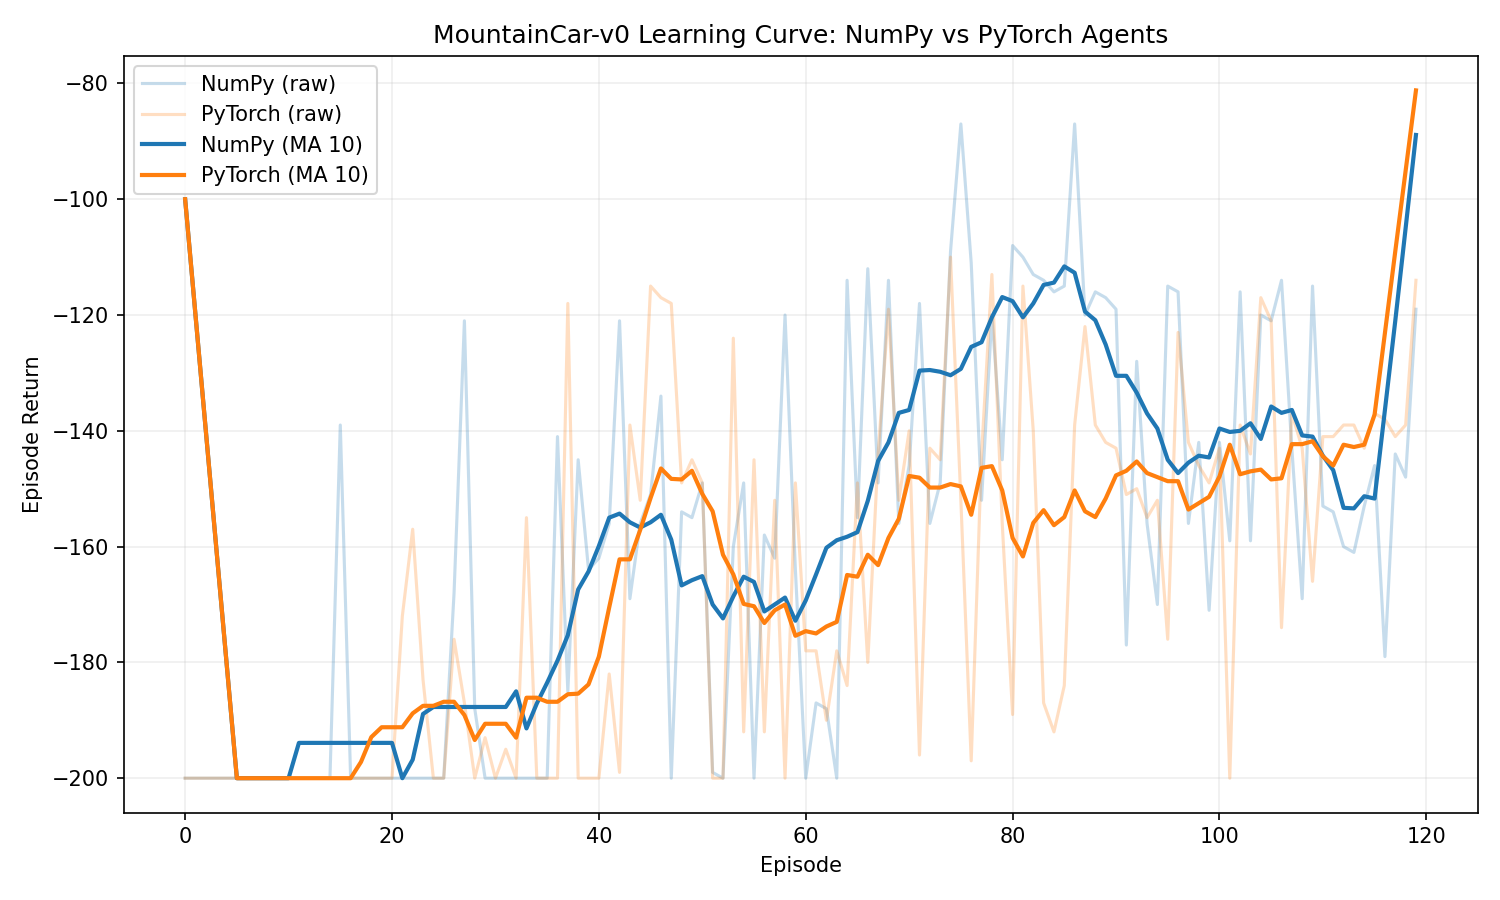
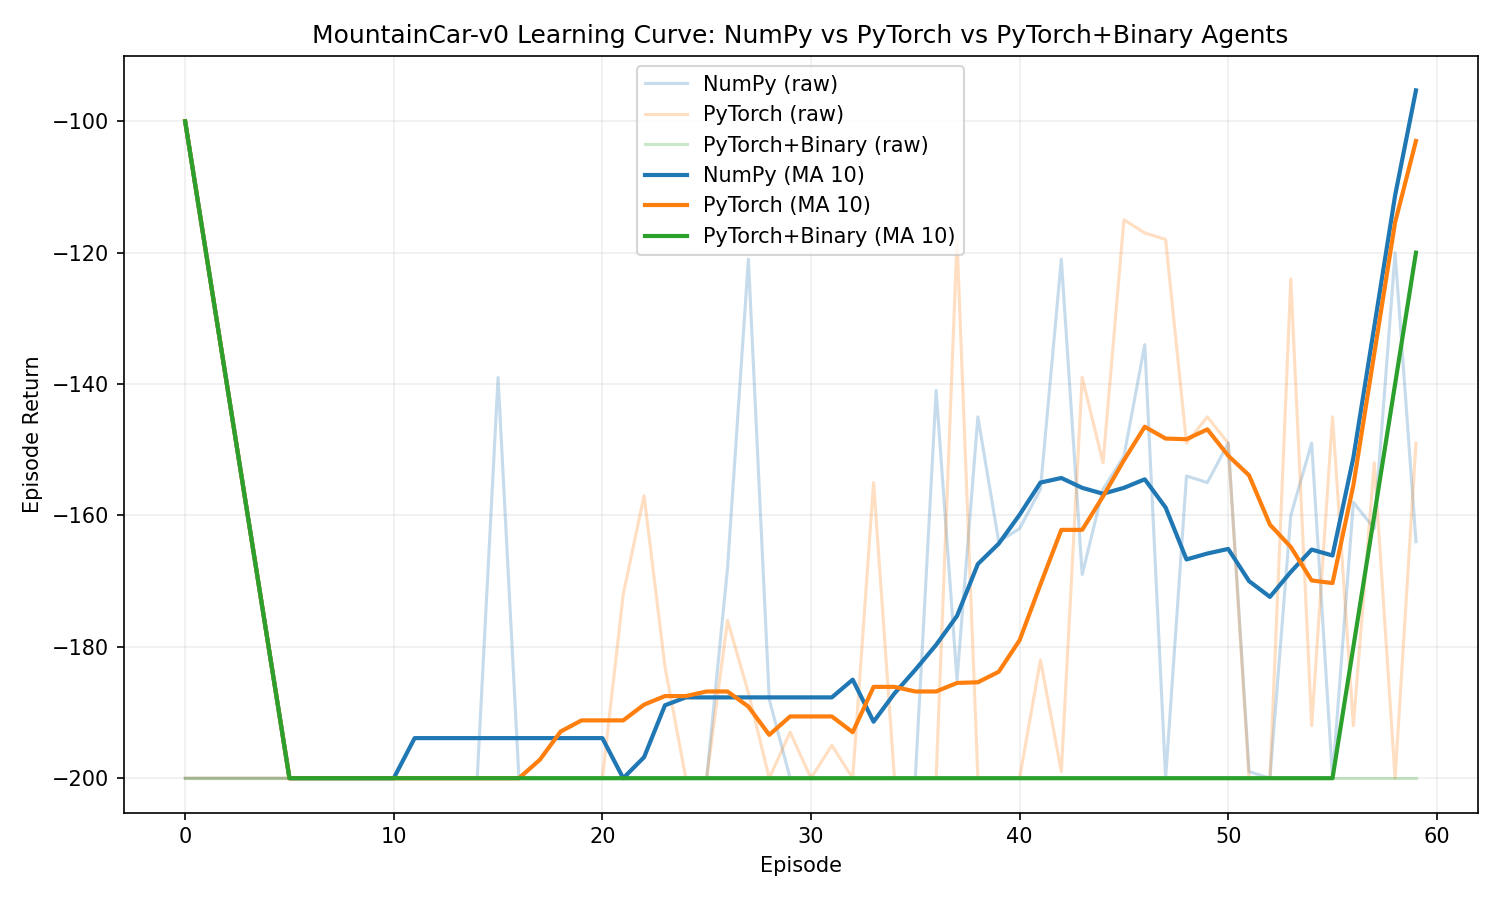
feat: add binary Kanerva layer and 3-agent comparison
Agent-Logs-Url: https://github.com/JadenTravnik/KanervaCoding/sessions/2e381cfc-a53f-4feb-bd0c-9257036e0b41

diff --git a/compare_learning_curves.py b/compare_learning_curves.py
@@ -6,9 +6,9 @@ import numpy as np
 import torch
 
 from agent import QValueAgent
-from agent_torch import QValueAgentTorch
+from agent_torch import QValueAgentTorch, QValueAgentTorchBinary
 from kanerva import BaseKanervaCoder
-from kanerva_torch import KanervaLayer
+from kanerva_torch import KanervaBinary, KanervaLayer
 
 # gym==0.26 expects np.bool8, which is removed in NumPy 2.x.
 if not hasattr(np, "bool8"):
@@ -118,6 +118,59 @@ def train_torch_agent(
     return returns
 
 
+def train_torch_binary_agent(
+    n_episodes: int,
+    max_steps: int,
+    n_features: int,
+    n_closest: int,
+    n_binary_features: int,
+    n_binary_closest: int,
+    alpha: float,
+    epsilon: float,
+    gamma: float,
+    lmbda: float,
+    seed: int,
+) -> np.ndarray:
+    env = gym.make("MountainCar-v0")
+    env.action_space.seed(seed)
+
+    kanerva_layer = KanervaLayer(env.observation_space, n_features, n_closest)
+    kanerva_binary_layer = KanervaBinary(n_features, n_binary_features, n_binary_closest)
+    agent = QValueAgentTorchBinary(
+        kanerva_layer=kanerva_layer,
+        kanerva_binary_layer=kanerva_binary_layer,
+        n_actions=env.action_space.n,
+        alpha=alpha,
+        epsilon=epsilon,
+        gamma=gamma,
+        lmbda=lmbda,
+    )
+
+    returns = np.zeros(n_episodes, dtype=np.float32)
+    for i_episode in range(n_episodes):
+        observation = _reset_env(env, seed=seed + i_episode)
+        obs_tensor = torch.tensor(observation, dtype=torch.float32)
+
+        ep_return = 0.0
+        for _ in range(max_steps):
+            action = agent.act(obs_tensor)
+            new_observation, reward, done, _ = _step_env(env, action)
+            new_obs_tensor = torch.tensor(new_observation, dtype=torch.float32)
+            agent.update(obs_tensor, action, reward, new_obs_tensor)
+            ep_return += reward
+
+            if done:
+                agent.erase_traces()
+                break
+
+            obs_tensor = new_obs_tensor
+
+        returns[i_episode] = ep_return
+
+    env.close()
+    return returns
+
+
 def moving_average(values: np.ndarray, window: int) -> np.ndarray:
     """
     Computes a simple moving average using convolution.
@@ -138,6 +191,8 @@ def main() -> None:
     parser.add_argument("--max-steps", type=int, default=200)
     parser.add_argument("--n-features", type=int, default=2000)
     parser.add_argument("--n-closest", type=int, default=25)
+    parser.add_argument("--n-binary-features", type=int, default=2000)
+    parser.add_argument("--n-binary-closest", type=int, default=25)
     parser.add_argument("--alpha", type=float, default=0.1)
     parser.add_argument("--epsilon", type=float, default=0.1)
     parser.add_argument("--gamma", type=float, default=0.99)
@@ -177,16 +232,42 @@ def main() -> None:
         seed=args.seed,
     )
 
+    np.random.seed(args.seed)
+    torch.manual_seed(args.seed)
+
+    torch_binary_returns = train_torch_binary_agent(
+        n_episodes=args.episodes,
+        max_steps=args.max_steps,
+        n_features=args.n_features,
+        n_closest=args.n_closest,
+        n_binary_features=args.n_binary_features,
+        n_binary_closest=args.n_binary_closest,
+        alpha=args.alpha,
+        epsilon=args.epsilon,
+        gamma=args.gamma,
+        lmbda=args.lmbda,
+        seed=args.seed,
+    )
+
     episodes = np.arange(args.episodes)
     numpy_smooth = moving_average(numpy_returns, args.smooth_window)
     torch_smooth = moving_average(torch_returns, args.smooth_window)
+    torch_binary_smooth = moving_average(torch_binary_returns, args.smooth_window)
 
     plt.figure(figsize=(10, 6))
     plt.plot(episodes, numpy_returns, color="tab:blue", alpha=0.25, label="NumPy (raw)")
     plt.plot(episodes, torch_returns, color="tab:orange", alpha=0.25, label="PyTorch (raw)")
+    plt.plot(episodes, torch_binary_returns, color="tab:green", alpha=0.25, label="PyTorch+Binary (raw)")
     plt.plot(episodes, numpy_smooth, color="tab:blue", linewidth=2.0, label=f"NumPy (MA {args.smooth_window})")
     plt.plot(episodes, torch_smooth, color="tab:orange", linewidth=2.0, label=f"PyTorch (MA {args.smooth_window})")
-    plt.title("MountainCar-v0 Learning Curve: NumPy vs PyTorch Agents")
+    plt.plot(
+        episodes,
+        torch_binary_smooth,
+        color="tab:green",
+        linewidth=2.0,
+        label=f"PyTorch+Binary (MA {args.smooth_window})",
+    )
+    plt.title("MountainCar-v0 Learning Curve: NumPy vs PyTorch vs PyTorch+Binary Agents")
     plt.xlabel("Episode")
     plt.ylabel("Episode Return")
     plt.grid(alpha=0.2)
@@ -197,6 +278,7 @@ def main() -> None:
     print(f"Saved learning curve comparison to {args.output}")
     print(f"NumPy mean return:   {numpy_returns.mean():.2f}")
     print(f"PyTorch mean return: {torch_returns.mean():.2f}")
+    print(f"PyTorch+Binary mean return: {torch_binary_returns.mean():.2f}")
 
 
 if __name__ == "__main__":

diff --git a/agent_torch.py b/agent_torch.py
@@ -1,6 +1,8 @@
 import torch
 from torch import nn
 
+from kanerva_torch import KanervaBinary, KanervaLayer
+
 
 class QValueAgentTorch(nn.Module):
     def __init__(
@@ -131,3 +133,68 @@ class QValueAgentTorch(nn.Module):
         Loads the weights of the agent stored in a torch file
         """
         self.load_state_dict(torch.load(filename, map_location=self.e.device))
+
+
+class QValueAgentTorchBinary(nn.Module):
+    def __init__(
+        self,
+        kanerva_layer: KanervaLayer,
+        kanerva_binary_layer: KanervaBinary,
+        n_actions: int,
+        alpha: float = 0.01,
+        epsilon: float = 0.1,
+        gamma: float = 0.9,
+        lmbda: float = 0.9,
+        device: torch.device | None = None,
+    ):
+        """
+        Q Learning Agent with eligibility traces composed with two Kanerva layers.
+
+        :param kanerva_layer: first-stage continuous Kanerva layer
+        :param kanerva_binary_layer: second-stage binary Kanerva layer
+        :param n_actions: number of discrete actions
+        :param alpha: learning rate
+        :param epsilon: epsilon greedy policy
+        :param gamma: discount factor
+        :param lmbda: eligibility trace factor
+        :param device: device to run the model on
+        """
+        super().__init__()
+        self.kanerva_layer = kanerva_layer
+        self.kanerva_binary_layer = kanerva_binary_layer
+
+        if device is None:
+            device = torch.device("cpu")
+
+        self.q_agent = QValueAgentTorch(
+            n_features=kanerva_binary_layer.n_prototypes,
+            n_actions=n_actions,
+            alpha=alpha,
+            epsilon=epsilon,
+            gamma=gamma,
+            lmbda=lmbda,
+            device=device,
+        )
+
+    def features_from_observation(self, observation: torch.Tensor) -> torch.Tensor:
+        first_features = self.kanerva_layer(observation).squeeze(0)
+        second_features = self.kanerva_binary_layer(first_features).squeeze(0)
+        return torch.nonzero(second_features, as_tuple=False).squeeze(-1)
+
+    def act(self, observation: torch.Tensor, greedy: bool = False) -> int:
+        features = self.features_from_observation(observation)
+        return self.q_agent.act(features, greedy=greedy)
+
+    def update(
+        self,
+        observation: torch.Tensor,
+        action: int,
+        reward: float,
+        next_observation: torch.Tensor,
+    ) -> float:
+        features = self.features_from_observation(observation)
+        next_features = self.features_from_observation(next_observation)
+        return self.q_agent.update(features, action, reward, next_features)
+
+    def erase_traces(self) -> None:
+        self.q_agent.erase_traces()

diff --git a/kanerva_torch.py b/kanerva_torch.py
@@ -72,3 +72,59 @@ class KanervaLayer(nn.Module):
         )
         features.scatter_(1, indexes, 1.0)
         return features
+
+
+class KanervaBinary(nn.Module):
+    def __init__(self, n_input_features: int, n_prototypes: int, n_closest: int):
+        """
+        Binary Kanerva coding layer using Hamming distance and selective activation.
+
+        :param n_input_features: size of incoming binary feature vector
+        :param n_prototypes: number of binary prototypes to represent space
+        :param n_closest: number of active prototypes
+        """
+        super().__init__()
+        self.n_input_features = n_input_features
+        self.n_prototypes = n_prototypes
+        self.n_closest = n_closest
+
+        prototypes = torch.randint(
+            low=0,
+            high=2,
+            size=(n_prototypes, n_input_features),
+            dtype=torch.bool,
+        )
+        self.prototypes = nn.Parameter(prototypes, requires_grad=False)
+
+    def distance(self, data: torch.Tensor) -> torch.Tensor:
+        """
+        Computes Hamming distance between binary input features and binary prototypes.
+
+        :param data: binary input batch
+        :return: distance tensor for each prototype
+        """
+        bin_data = data > 0
+        diff = torch.logical_xor(self.prototypes.unsqueeze(0), bin_data.unsqueeze(1))
+        return diff.sum(dim=-1).float()
+
+    def forward(self, data: torch.Tensor) -> torch.Tensor:
+        """
+        Gets active binary prototypes for the input binary features.
+
+        :param data: input tensor of shape (n_input_features,) or (batch, n_input_features)
+        :return: binary activation tensor of shape (batch, n_prototypes)
+        """
+        if data.dim() == 1:
+            data = data.unsqueeze(0)
+
+        dist = self.distance(data)
+        _, indexes = torch.topk(dist, k=self.n_closest, dim=1, largest=False)
+
+        features = torch.zeros(
+            data.shape[0],
+            self.n_prototypes,
+            device=data.device,
+            dtype=torch.float32,
+        )
+        features.scatter_(1, indexes, 1.0)
+        return features
